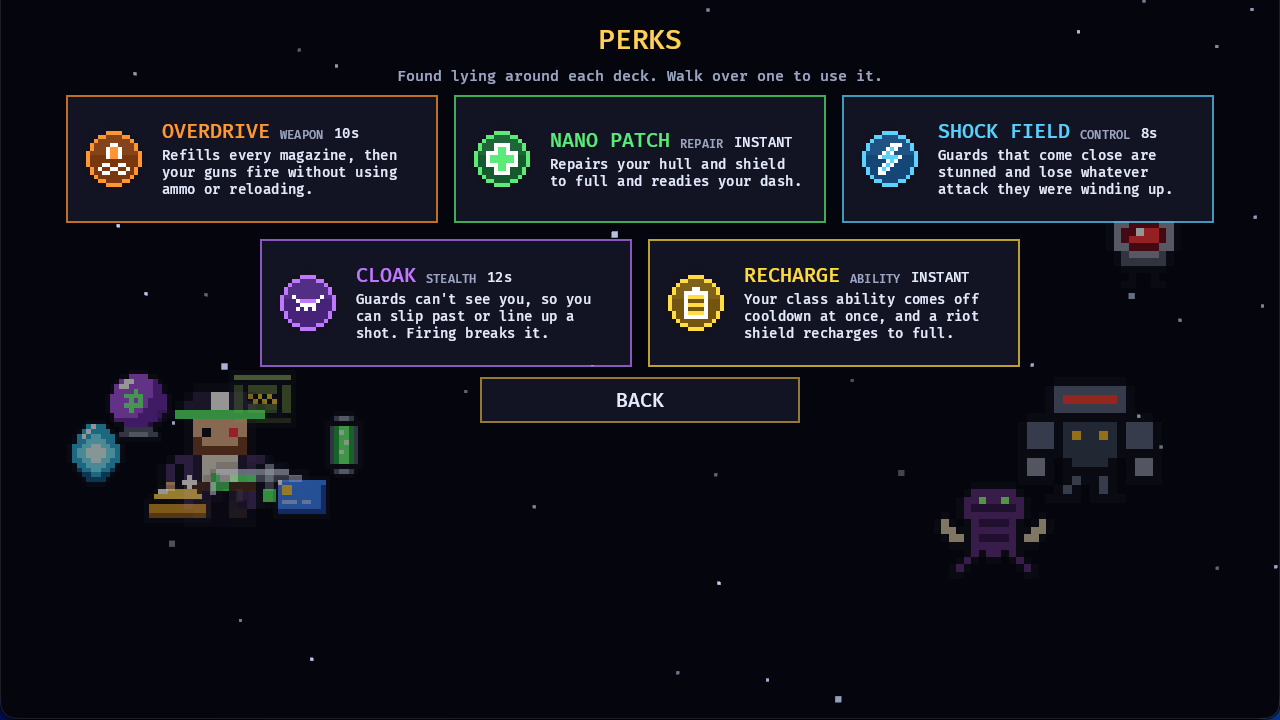
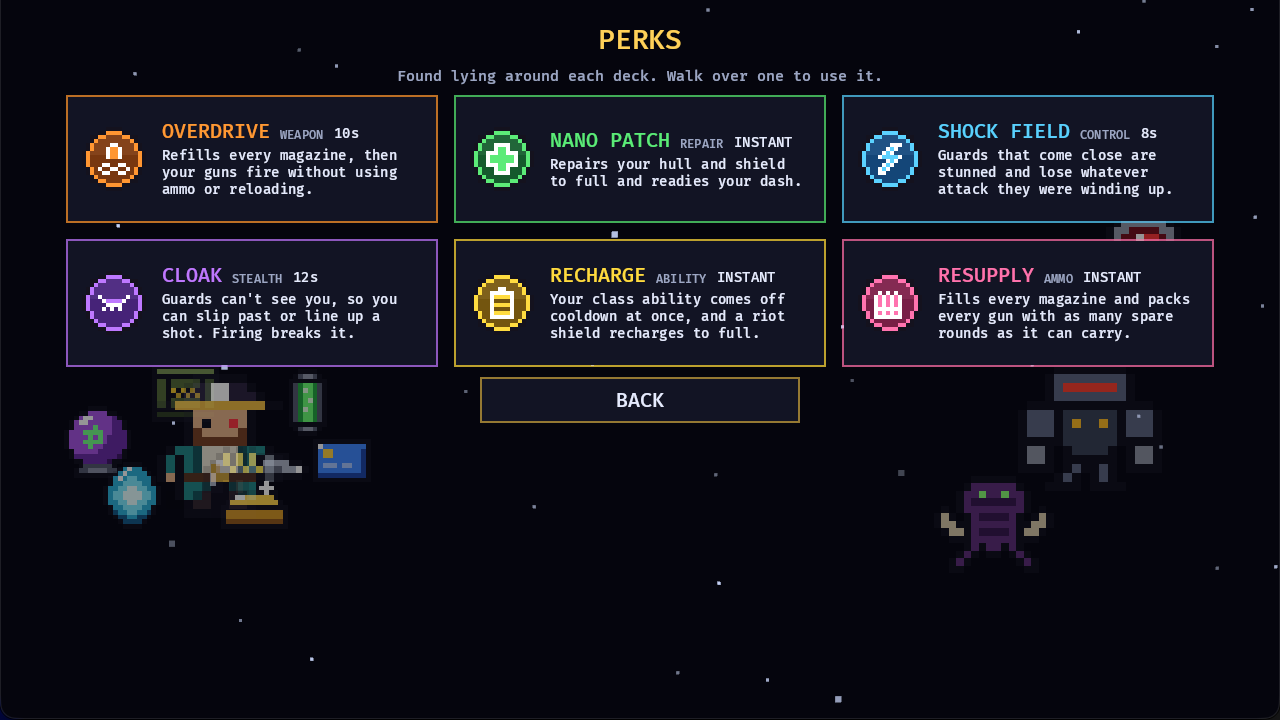
Added the Resupply perk that refills all ammo, made LAN games always send reinforcements, and swung the Vault Stalker's rampage dashes randomly off the crew

Changed region(s): [[0.0312, 0.3056, 0.9375, 0.7333], [0.7188, 0.5194, 0.9062, 0.7944], [0.9688, 0.9778, 1.0, 1.0]]

diff --git a/src/boss.rs b/src/boss.rs
@@ -171,8 +171,11 @@ const DASH_TIME: f32 = 0.8;
 /// Seconds braced at the wall between dashes, the next lane showing.
 const BRACE: f32 = 0.45;
 const ENRAGED_BRACE: f32 = 0.35;
-/// Each lane runs through a pirate, or up to this far to one side of them.
-const LANE_JITTER: f32 = 10.0;
+/// A rampage dash only roughly heads for the crew: it sets off toward a
+/// pirate it can see swung up to `LANE_SWING` radians either way, or, with
+/// odds `WILD_LANE`, any way at all.
+const LANE_SWING: f32 = 55.0 * std::f32::consts::PI / 180.0;
+const WILD_LANE: f32 = 0.35;
 /// A lane shorter than this ahead of it isn't worth dashing: it heads for the
 /// middle of the room instead.
 const MIN_DASH: f32 = 64.0;
@@ -1000,6 +1003,16 @@ fn edge_reach(floor: Rect, p: Vec2, dir: Vec2) -> f32 {
     if reach.is_finite() { reach.max(0.0) } else { 0.0 }
 }
 
+/// Which way a rampage dash from `from` sets off, given a pirate at `target`:
+/// roughly their way, swung up to `LANE_SWING` either side, or now and then
+/// (`WILD_LANE`) any way at all.
+fn rampage_dir(rng: &mut Rng, from: Vec2, target: Vec2) -> Vec2 {
+    if rng.unit() < WILD_LANE {
+        return Vec2::from_angle(rng.unit() * std::f32::consts::TAU);
+    }
+    Vec2::from_angle(rng.signed() * LANE_SWING).rotate((target - from).normalize_or(Vec2::X))
+}
+
 /// A rampage dash's lane from `from` toward `aim`, from wall to wall of the
 /// room floor `room` (for a body of half-extent `half`): it starts behind
 /// `from` and ends past `aim`, where the dash ends. If that's hardly any way
@@ -1558,10 +1571,11 @@ fn drive_stalker(
         .map(|(_, _, _, t, ..)| t.translation.truncate())
         .collect();
     // A dash's lane from `from`: wall to wall, through or just beside someone.
+    // A dash's lane from `from`: wall to wall, only roughly toward someone.
     let next_lane = |rng: &mut Rng, from: Vec2| {
         let target = spots[roll(rng, spots.len())];
-        let aside = (target - from).normalize_or(Vec2::X).perp() * rng.signed() * LANE_JITTER;
-        clip_lane(&grid, half, from, rampage_lane(room, half, from, target + aside))
+        let aim = from + rampage_dir(rng, from, target) * MIN_DASH;
+        clip_lane(&grid, half, from, rampage_lane(room, half, from, aim))
     };
     // The lunges a wind-up from `from` shows: a fresh count, fanned evenly round it.
     let spokes = |rng: &mut Rng, from: Vec2| {
@@ -2436,6 +2450,20 @@ mod tests {
             }
         }
         assert_eq!(MAX_LUNGES, 2, "one more at most");
+    }
+
+    #[test]
+    fn rampage_dashes_only_roughly_head_for_the_crew() {
+        let mut rng = Rng::new(11);
+        let (from, target) = (Vec2::ZERO, Vec2::new(100.0, 0.0));
+        let offs: Vec<f32> = (0..2000).map(|_| rampage_dir(&mut rng, from, target).to_angle().abs()).collect();
+        assert!(offs.iter().all(|a| a.is_finite()));
+        let share = |test: &dyn Fn(f32) -> bool| offs.iter().filter(|a| test(**a)).count() as f32 / offs.len() as f32;
+        // Rarely dead on them, often well off, and now and then any way at all.
+        assert!(share(&|a| a < 0.05) < 0.15, "too often straight at them");
+        assert!(share(&|a| a > 0.5) > 0.4, "too rarely well off");
+        let past = share(&|a| a > LANE_SWING + 0.01);
+        assert!(past > 0.1 && past < WILD_LANE, "wild dashes: {past}");
     }
 
     #[test]

diff --git a/src/perks.rs b/src/perks.rs
@@ -62,10 +62,12 @@ pub enum PerkKind {
     Cloak,
     /// The class ability is ready again at once.
     Recharge,
+    /// Every gun's magazine and spare rounds filled to the most it carries.
+    Resupply,
 }
 
 impl PerkKind {
-    pub const ALL: [PerkKind; 5] = [Self::Overdrive, Self::NanoPatch, Self::ShockField, Self::Cloak, Self::Recharge];
+    pub const ALL: [PerkKind; 6] = [Self::Overdrive, Self::NanoPatch, Self::ShockField, Self::Cloak, Self::Recharge, Self::Resupply];
 
     pub fn from_char(c: char) -> Option<Self> {
         Some(match c {
@@ -74,6 +76,7 @@ impl PerkKind {
             '3' => Self::ShockField,
             '4' => Self::Cloak,
             '5' => Self::Recharge,
+            '6' => Self::Resupply,
             _ => return None,
         })
     }
@@ -85,6 +88,7 @@ impl PerkKind {
             Self::ShockField => "SHOCK FIELD",
             Self::Cloak => "CLOAK",
             Self::Recharge => "RECHARGE",
+            Self::Resupply => "RESUPPLY",
         }
     }
 
@@ -96,6 +100,7 @@ impl PerkKind {
             Self::ShockField => "CONTROL",
             Self::Cloak => "STEALTH",
             Self::Recharge => "ABILITY",
+            Self::Resupply => "AMMO",
         }
     }
 
@@ -106,6 +111,7 @@ impl PerkKind {
             Self::ShockField => "stuns enemies near you",
             Self::Cloak => "unseen until you fire",
             Self::Recharge => "ability ready again",
+            Self::Resupply => "all ammo refilled",
         }
     }
 
@@ -117,6 +123,7 @@ impl PerkKind {
             Self::ShockField => "Guards that come close are stunned and lose whatever attack they were winding up.",
             Self::Cloak => "Guards can't see you, so you can slip past or line up a shot. Firing breaks it.",
             Self::Recharge => "Your class ability comes off cooldown at once, and a riot shield recharges to full.",
+            Self::Resupply => "Fills every magazine and packs every gun with as many spare rounds as it can carry.",
         }
     }
 
@@ -128,6 +135,7 @@ impl PerkKind {
             Self::ShockField => Some(8.0),
             Self::Cloak => Some(12.0),
             Self::Recharge => None,
+            Self::Resupply => None,
         }
     }
 
@@ -138,6 +146,7 @@ impl PerkKind {
             Self::ShockField => Color::srgb(0.35, 0.82, 1.0),
             Self::Cloak => Color::srgb(0.75, 0.47, 1.0),
             Self::Recharge => Color::srgb(1.0, 0.86, 0.25),
+            Self::Resupply => Color::srgb(1.0, 0.45, 0.68),
         }
     }
 
@@ -148,6 +157,7 @@ impl PerkKind {
             Self::ShockField => "sprites/perks/shock_field.png",
             Self::Cloak => "sprites/perks/cloak.png",
             Self::Recharge => "sprites/perks/recharge.png",
+            Self::Resupply => "sprites/perks/resupply.png",
         }
     }
 }
@@ -282,6 +292,7 @@ fn pick_up_perks(
                 ability.cooldown = 0.0;
                 ability.charge = RIOT_LIFE;
             }
+            PerkKind::Resupply => arsenal.resupply(),
             PerkKind::ShockField | PerkKind::Cloak => {}
         }
         fx(&mut commands, FxKind::Perk(kind), pos, 0.0, kind.color());

diff --git a/src/mission.rs b/src/mission.rs
@@ -415,8 +415,16 @@ fn tick_banner(time: Res<Time>, mut banner: ResMut<Banner>) {
     banner.timer = (banner.timer - time.delta_secs()).max(0.0);
 }
 
+/// Whether guard waves come once the alarm is up: always in a LAN game, and
+/// in a solo raid as the reinforcements setting says.
+fn reinforcements_on(settings: &Settings, mode: &NetMode) -> bool {
+    settings.reinforcements || *mode != NetMode::Solo
+}
+
 /// Copies host-only mission state into the replicated status, only when it changes.
+#[allow(clippy::too_many_arguments)]
 fn publish_status(
+    mode: Res<NetMode>,
     state: Res<State<GameState>>,
     heist: Res<Heist>,
     alarm: Res<Alarm>,
@@ -433,7 +441,7 @@ fn publish_status(
         seed: heist.seed,
         deck: heist.deck,
         alarm: alarm.level,
-        reinforcements: settings.reinforcements,
+        reinforcements: reinforcements_on(&settings, &mode),
         // Whole seconds are all the HUD shows; avoids replicating every frame.
         next_wave: alarm.wave_timer.max(0.0).ceil(),
         extraction: (extraction.progress * 10.0).round() / 10.0,
@@ -482,6 +490,7 @@ fn announce_alarm(mut alarm: ResMut<Alarm>, mut banner: ResMut<Banner>) {
 }
 
 fn run_waves(
+    mode: Res<NetMode>,
     mut commands: Commands,
     time: Res<Time>,
     grid: Res<RoomGrid>,
@@ -496,7 +505,7 @@ fn run_waves(
     }
     let dt = time.delta_secs();
     alarm.level = (alarm.level + ALARM_CREEP * dt).min(MAX_ALARM);
-    if !settings.reinforcements {
+    if !reinforcements_on(&settings, &mode) {
         return;
     }
     alarm.wave_timer -= dt;
@@ -1284,6 +1293,17 @@ mod tests {
         let solo = outcome(seat(Finished, 3000, 3000), tally, Settlement::default());
         assert_eq!(solo.title, "EXTRACTED");
         assert_eq!(solo.detail, "You got out with 3,000 cr from deck 2");
+    }
+
+    #[test]
+    fn lan_games_always_send_reinforcements() {
+        let off = Settings { reinforcements: false, ..Settings::default() };
+        let on = Settings { reinforcements: true, ..Settings::default() };
+        let host = NetMode::Host { port: 5000, code: "ABCD-EFGH".into() };
+        assert!(!reinforcements_on(&off, &NetMode::Solo), "solo follows the setting");
+        assert!(reinforcements_on(&on, &NetMode::Solo));
+        assert!(reinforcements_on(&off, &host), "a LAN game has them whatever the host's setting");
+        assert!(reinforcements_on(&on, &host));
     }
 
     #[test]

diff --git a/src/guns.rs b/src/guns.rs
@@ -363,6 +363,17 @@ impl Arsenal {
         self.reloading = None;
     }
 
+    /// Fills every magazine, packs every gun with as many spare rounds as it
+    /// can carry (twice its reserve), and cancels any reload.
+    pub fn resupply(&mut self) {
+        self.refill();
+        for gun in &mut self.guns {
+            if let (Some(spare), Some(reserve)) = (gun.spare.as_mut(), gun.kind.stats().reserve) {
+                *spare = (*spare).max(reserve * 2);
+            }
+        }
+    }
+
     /// Adds a magazine's worth of spare rounds to `kind`, up to twice its
     /// reserve. Returns the rounds actually added.
     pub fn add_ammo_for(&mut self, kind: GunKind) -> u32 {
@@ -1021,6 +1032,32 @@ mod tests {
     use crate::player::CrewSize;
     use crate::room::NextSeed;
     use crate::{GamePlugins, GameState};
+
+    /// A resupply fills every magazine and packs every limited gun with as
+    /// many spare rounds as it carries, never taking any away.
+    #[test]
+    fn resupply_fills_every_gun() {
+        let kinds = [GunKind::BlasterPistol, GunKind::PulseRifle, GunKind::GrenadeLauncher];
+        let mut arsenal = Arsenal::new(&kinds);
+        for gun in &mut arsenal.guns {
+            gun.ammo = 0;
+            if let Some(spare) = gun.spare.as_mut() {
+                *spare = 1;
+            }
+        }
+        arsenal.reloading = Some(1.0);
+        arsenal.resupply();
+        assert_eq!(arsenal.reloading, None);
+        for gun in &arsenal.guns {
+            let stats = gun.kind.stats();
+            assert_eq!(gun.ammo, stats.magazine, "{:?} magazine", gun.kind);
+            assert_eq!(gun.spare, stats.reserve.map(|r| r * 2), "{:?} spare", gun.kind);
+        }
+        // Already full, it changes nothing.
+        let before: Vec<_> = arsenal.guns.iter().map(|g| (g.ammo, g.spare)).collect();
+        arsenal.resupply();
+        assert_eq!(before, arsenal.guns.iter().map(|g| (g.ammo, g.spare)).collect::<Vec<_>>());
+    }
 
     /// A challenge's damage reward multiplies a pirate's shots on top of their
     /// boons: two Gunners fire the same frame, one with +30% running.

diff --git a/src/deckgen.rs b/src/deckgen.rs
@@ -145,7 +145,7 @@ const VAULT_ROOM: (usize, usize) = (24, 16);
 const MIN_ROOMS: usize = 4;
 
 /// Perk pickups: restores and ammo are common, the tactical ones rarer.
-const PERK_TABLE: &[(char, u32)] = &[('1', 3), ('2', 3), ('3', 2), ('4', 2), ('5', 2)];
+const PERK_TABLE: &[(char, u32)] = &[('1', 3), ('2', 3), ('3', 2), ('4', 2), ('5', 2), ('6', 3)];
 
 pub fn generate(seed: u32, deck: u8, decks: u8) -> Layout {
     // A corridor between other rooms can clip the sealed vault room; roll again.
@@ -624,7 +624,7 @@ mod tests {
                     assert_eq!(tiles[y][x], 'V');
                     assert_eq!(tiles[y + 1][x + 1], 'V');
                 }
-                let perks = ['1', '2', '3', '4', '5'].into_iter().map(count).sum::<usize>();
+                let perks = ['1', '2', '3', '4', '5', '6'].into_iter().map(count).sum::<usize>();
                 assert!((1..=3).contains(&perks), "seed {seed} deck {deck}: {perks} perks");
             }
         }

diff --git a/src/menu.rs b/src/menu.rs
@@ -487,7 +487,7 @@ fn extras_screen(mut commands: Commands, assets: Res<AssetServer>) {
 fn settings_screen(mut commands: Commands, assets: Res<AssetServer>, settings: Res<Settings>) {
     let root = screen_root(&mut commands, &assets, MenuScreen::Settings);
     let rows = [
-        (Setting::Reinforcements, "REINFORCEMENTS", "Guard waves arrive while the alarm is up. The host's setting counts."),
+        (Setting::Reinforcements, "REINFORCEMENTS", "Guard waves arrive while the alarm is up, in solo raids. Always on in LAN games."),
         (Setting::Vsync, "VSYNC", "Wait for the monitor between frames. Stops tearing."),
         (Setting::RefreshRate, "REFRESH RATE", "Frames per second cap. With vsync on, the monitor's rate is the ceiling."),
     ];

diff --git a/tools/gen_assets.py b/tools/gen_assets.py
@@ -1008,6 +1008,17 @@ PERK_SYMBOLS = {
         ".wSSSSw.",
         ".wwwwww.",
     ],
+    # Full ammo: three rounds standing side by side.
+    "resupply": [
+        "........",
+        ".w.w.w..",
+        "wSwSwSw.",
+        "wSwSwSw.",
+        "wSwSwSw.",
+        "wwwwwww.",
+        "wSwSwSw.",
+        "wwwwwww.",
+    ],
 }
 
 PERK_COLORS = {
@@ -1016,6 +1027,7 @@ PERK_COLORS = {
     "shock_field": (rgb(90, 210, 255), rgb(20, 70, 120)),
     "cloak": (rgb(190, 120, 255), rgb(70, 35, 120)),
     "recharge": (rgb(255, 220, 65), rgb(115, 85, 15)),
+    "resupply": (rgb(255, 115, 175), rgb(120, 30, 70)),
 }
 
 

diff --git a/src/settings.rs b/src/settings.rs
@@ -12,7 +12,7 @@ pub const REFRESH_RATES: [Option<u32>; 6] = [None, Some(30), Some(60), Some(120)
 
 #[derive(Resource, Clone, PartialEq, Debug)]
 pub struct Settings {
-    /// Reinforcement waves once the alarm is raised. Only the host's choice counts.
+    /// Reinforcement waves once the alarm is raised, in solo raids; LAN games always have them.
     pub reinforcements: bool,
     pub vsync: bool,
     /// Frames per second the game won't exceed; `None` leaves it to vsync or the GPU.

diff --git a/src/room.rs b/src/room.rs
@@ -33,7 +33,7 @@ const CARRIED_HALF: f32 = 6.0;
 // 'G' vault gate (2 tiles, the only way into the vault room; open once its keeper is down)
 // loot: c chip, i ingot, x crystal, r relic, p plasma, w crate
 // guards: d sentry drone, s stalker, h warden, b brute, g herald
-// perks: 1 overdrive, 2 nano patch, 3 shock field, 4 cloak, 5 recharge
+// perks: 1 overdrive, 2 nano patch, 3 shock field, 4 cloak, 5 recharge, 6 resupply
 
 pub struct RoomPlugin;
 

diff --git a/README.md b/README.md
@@ -10,7 +10,8 @@ before security overwhelms you.
 
 Each deck down is harder than the last: more rooms, more guards in each, and
 nastier ones, and once the alarm is up, reinforcements come faster, in bigger
-waves, and with more of the heavy guards.
+waves, and with more of the heavy guards. LAN games always have
+reinforcements; in a solo raid they can be turned off under **SETTINGS**.
 
 Every deck is laid out fresh from the run's seed. Its rooms come in many
 kinds: plain, L-shaped or cross-shaped rooms, long galleries and great halls,
@@ -50,7 +51,8 @@ Four kinds of boss take turns down the decks, so a heist meets three of them:
   crouches and fans out again from where it landed for a second lunge. Now and
   then it rampages instead: it rears up, then dashes wall to wall across the
   room four times (six enraged), bracing at the wall between dashes with the
-  next lane showing. A dash does massive damage. It stands spent for a moment
+  next lane showing. Each dash only roughly heads for the crew, and now and
+  then goes any way at all. A dash does massive damage. It stands spent for a moment
   after either attack. Stand between the spokes, or at least off the white
   one, and out of the lane.
 
